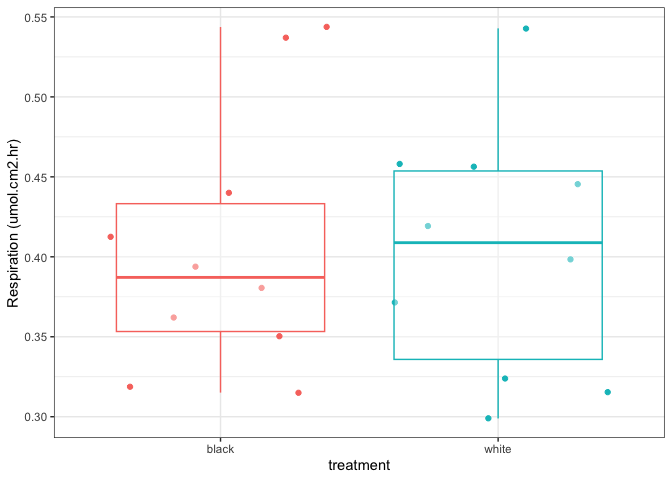
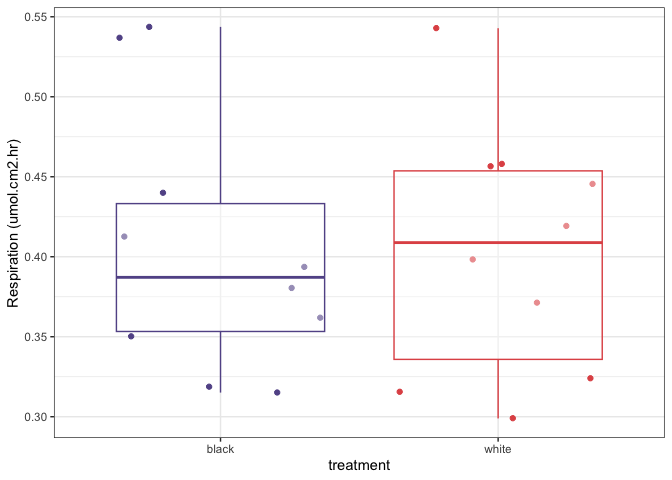
rates updates

diff --git a/Scripts/respo_rates_analysis.md b/Scripts/respo_rates_analysis.md
@@ -197,11 +197,12 @@ rates_DW_long <- rates_PR_DWnorm %>%
 tile_measurements %>%
   filter(treatment %in% c("white", "black")) %>%
   ggplot(aes(x = treatment, y = dry_weight_g, color = treatment)) +
+  geom_boxplot() +
   geom_jitter() +
-  geom_boxplot(alpha = 0.4) +
   theme_bw() +
   labs(y = "Dry Algae Biomass (g)") +
-  guides(color = "none")
+  guides(color = "none") +
+  scale_color_manual(values = c("#635596","#E15554" ))
 ```
 
 ![](respo_rates_analysis_files/figure-gfm/unnamed-chunk-14-1.png)<!-- -->
@@ -224,17 +225,26 @@ tile_measurements %>%
 ``` r
 rates_PR_SAnorm %>% 
   ggplot(aes(x = treatment, y = values, color = treatment)) +
-  geom_jitter() +
   geom_boxplot(alpha = 0.4) +
-  facet_wrap(~PR ,scales = "free") + #*run_block, nrow = 3
+  geom_jitter() +
+  facet_wrap(~factor(PR, levels = c("net_photosynthesis", "gross_photosynthesis", "respiration")),
+             scales = "free",
+             labeller = as_labeller(c(gross_photosynthesis = "Gross Photosynthesis", 
+                                      net_photosynthesis = "Net Photosynthesis", 
+                                      respiration = "Respiration"))) +
   theme_bw() +
   labs(x = "Treatment", y = "umol.cm2.hr")+
   theme(strip.background = element_rect(fill = "white"),
         strip.text = element_text(face = "bold")) +
-  guides(color = "none")
+  guides(color = "none") +
+  scale_color_manual(values = c("#635596","#E15554" ))
 ```
 
 ![](respo_rates_analysis_files/figure-gfm/unnamed-chunk-16-1.png)<!-- -->
+
+``` r
+ggsave(here("Output", "SA_normalized_rates.jpeg"), height = 6, width = 10)
+```
 
 #### Photosynthesis + Respiration Plot, Dry Weight Normalized
 
@@ -243,15 +253,24 @@ rates_PR_DWnorm %>%
   ggplot(aes(x = treatment, y = values, color = treatment)) +
   geom_jitter() +
   geom_boxplot(alpha = 0.4) +
-  facet_wrap(~PR, scales = "free") +
+  facet_wrap(~factor(PR, levels = c("net_photosynthesis", "gross_photosynthesis", "respiration")), 
+             scales = "free",
+             labeller = as_labeller(c(gross_photosynthesis = "Gross Photosynthesis", 
+                                      net_photosynthesis = "Net Photosynthesis", 
+                                      respiration = "Respiration"))) +
   theme_bw() +
   labs(x = "Treatment", y = "umol.g.hr")+
   theme(strip.background = element_rect(fill = "white"),
         strip.text = element_text(face = "bold")) +
-  guides(color = "none")
+  guides(color = "none") +
+  scale_color_manual(values = c("#635596","#E15554" ))
 ```
 
 ![](respo_rates_analysis_files/figure-gfm/unnamed-chunk-17-1.png)<!-- -->
+
+``` r
+ggsave(here("Output", "DW_normalized_rates.jpeg"), height = 6, width = 10)
+```
 
 ``` r
 rates_PR_SAnorm %>% 
@@ -310,7 +329,8 @@ rates_PR_SAnorm %>% filter(PR == "gross_photosynthesis") %>%
   geom_boxplot(alpha = 0.4) +
   theme_bw() +
   labs(y ="Gross Photosynthesis (umol.cm2.hr)") +
-  guides(color = "none")
+  guides(color = "none")  +
+  scale_color_manual(values = c("#635596","#E15554" ))
 ```
 
 ![](respo_rates_analysis_files/figure-gfm/unnamed-chunk-20-1.png)<!-- -->
@@ -324,7 +344,8 @@ rates_PR_DWnorm %>% filter(PR == "gross_photosynthesis") %>%
   geom_boxplot(alpha = 0.4) +
   theme_bw() +
   labs(y ="Gross Photosynthesis (umol.g.hr)") +
-  guides(color = "none")
+  guides(color = "none") +
+  scale_color_manual(values = c("#635596","#E15554" ))
 ```
 
 ![](respo_rates_analysis_files/figure-gfm/unnamed-chunk-21-1.png)<!-- -->
@@ -338,7 +359,8 @@ rates_PR_SAnorm %>% filter(PR == "net_photosynthesis") %>%
   geom_boxplot(alpha = 0.4) +
   theme_bw() +
   labs(y ="Net Photosynthesis (umol.cm2.hr)") +
-  guides(color = "none")
+  guides(color = "none") +
+  scale_color_manual(values = c("#635596","#E15554" ))
 ```
 
 ![](respo_rates_analysis_files/figure-gfm/unnamed-chunk-22-1.png)<!-- -->
@@ -352,7 +374,8 @@ rates_PR_DWnorm %>% filter(PR == "net_photosynthesis") %>%
   geom_boxplot(alpha = 0.4) +
   theme_bw() +
   labs(y ="Net Photosynthesis (umol.g.hr)") +
-  guides(color = "none")
+  guides(color = "none") +
+  scale_color_manual(values = c("#635596","#E15554" ))
 ```
 
 ![](respo_rates_analysis_files/figure-gfm/unnamed-chunk-23-1.png)<!-- -->
@@ -366,7 +389,8 @@ rates_PR_SAnorm %>% filter(PR == "respiration") %>%
   geom_boxplot(alpha = 0.4) +
   theme_bw() +
   labs(y ="Respiration (umol.cm2.hr)") +
-  guides(color = "none")
+  guides(color = "none") +
+  scale_color_manual(values = c("#635596","#E15554" ))
 ```
 
 ![](respo_rates_analysis_files/figure-gfm/unnamed-chunk-24-1.png)<!-- -->
@@ -380,7 +404,8 @@ rates_PR_DWnorm %>% filter(PR == "respiration") %>%
   geom_boxplot(alpha = 0.4) +
   theme_bw() +
   labs(y ="Respiration (umol.g.hr)") +
-  guides(color = "none")
+  guides(color = "none") +
+  scale_color_manual(values = c("#635596","#E15554" ))
 ```
 
 ![](respo_rates_analysis_files/figure-gfm/unnamed-chunk-25-1.png)<!-- -->
@@ -405,7 +430,7 @@ rates_SA_long %>%
   ggplot(aes(x = ratio, y = net_photosynthesis)) + 
   geom_point() + 
   geom_smooth(method = "lm") +
-  #facet_wrap(~treatment) + 
+  facet_wrap(~treatment) + 
   theme_bw() +
   labs(x = "Encrusting/Turf Ratio")
 ```
@@ -425,7 +450,7 @@ rates_DW_long %>%
   ggplot(aes(x = ratio, y = net_photosynthesis)) + 
   geom_point() + 
   geom_smooth(method = "lm") +
-  #facet_wrap(~treatment) + 
+  facet_wrap(~treatment) + 
   theme_bw() +
   labs(x = "Encrusting/Turf Ratio")
 ```
@@ -441,7 +466,7 @@ rates_SA_long %>%
   ggplot(aes(x = ratio, y = gross_photosynthesis)) + 
   geom_point() + 
   geom_smooth(method = "lm") +
-  #facet_wrap(~treatment) + 
+  facet_wrap(~treatment) + 
   theme_bw() +
   labs(x = "Encrusting/Turf Ratio")
 ```
@@ -457,7 +482,7 @@ rates_DW_long %>%
   ggplot(aes(x = ratio, y = gross_photosynthesis)) + 
   geom_point() + 
   geom_smooth(method = "lm") +
-  #facet_wrap(~treatment) + 
+  facet_wrap(~treatment) + 
   theme_bw() +
   labs(x = "Encrusting/Turf Ratio")
 ```
@@ -473,7 +498,7 @@ rates_SA_long %>%
   ggplot(aes(x = ratio, y = respiration)) + 
   geom_point() + 
   geom_smooth(method = "lm") +
-  #facet_wrap(~treatment) + 
+  facet_wrap(~treatment) + 
   theme_bw() +
   labs(x = "Encrusting/Turf Ratio")
 ```
@@ -489,7 +514,7 @@ rates_DW_long %>%
   ggplot(aes(x = ratio, y = respiration)) + 
   geom_point() + 
   geom_smooth(method = "lm") +
-  #facet_wrap(~treatment) + 
+  facet_wrap(~treatment) + 
   theme_bw() +
   labs(x = "Encrusting/Turf Ratio")
 ```
@@ -497,3 +522,37 @@ rates_DW_long %>%
     ## `geom_smooth()` using formula = 'y ~ x'
 
 ![](respo_rates_analysis_files/figure-gfm/unnamed-chunk-32-1.png)<!-- -->
+
+``` r
+rates_SA_long %>% 
+  ggplot(aes(x = Turf, y = net_photosynthesis)) + 
+  geom_point() + 
+  geom_smooth(method = "lm") +
+  facet_wrap(~treatment) + 
+  theme_bw() +
+  labs(x = "Turf Percent Cover")
+```
+
+    ## `geom_smooth()` using formula = 'y ~ x'
+
+![](respo_rates_analysis_files/figure-gfm/unnamed-chunk-33-1.png)<!-- -->
+
+``` r
+rates_SA_long %>%
+  ggplot(aes(x = treatment, y = gross_photosynthesis/respiration)) + geom_boxplot() + geom_jitter()
+```
+
+![](respo_rates_analysis_files/figure-gfm/unnamed-chunk-34-1.png)<!-- -->
+
+``` r
+rates_SA_long %>% 
+  mutate(gp_r = gross_photosynthesis/respiration) %>% 
+  group_by(treatment) %>% 
+  summarise(mean_gpr = mean(gp_r))
+```
+
+    ## # A tibble: 2 × 2
+    ##   treatment mean_gpr
+    ##   <chr>        <dbl>
+    ## 1 black         4.59
+    ## 2 white         4.92
